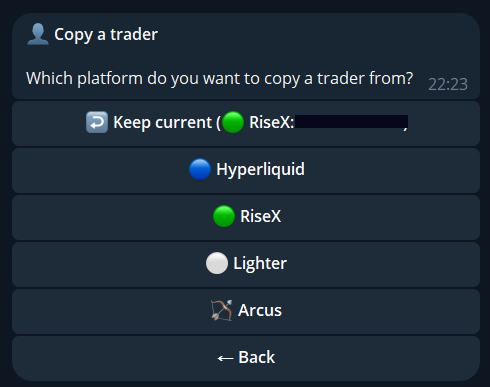
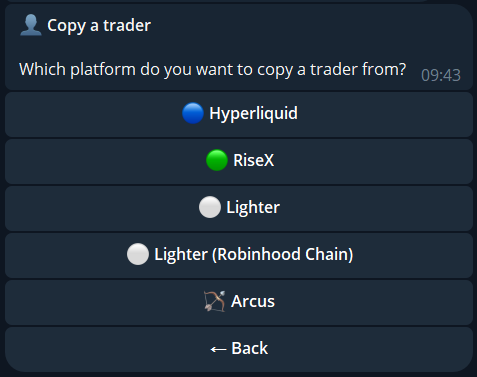
docs: new bot screenshots (five copy sources, welcome menu), Notifications page with the card images

diff --git a/docs/src/content/docs/start/quickstart.md b/docs/src/content/docs/start/quickstart.md
@@ -11,7 +11,7 @@ description: From invite code to your first position.
 3. **Approve the fee once.** On Hyperliquid, Lighter, Lighter RH and RiseX the bot sends a signing link. You sign with your wallet.
 4. **Pick a mode.** [Copy trading](/guide/copy-trading/) needs one venue. [Delta-Neutral](/guide/delta-neutral/) needs two.
 
-   ![The main menu with the Copy Trading and Delta-Neutral buttons](../../../assets/screenshots/bot-main-menu.png)
+   ![The welcome menu: Copy Trading and Delta Neutral, with Link platform, Watch Traders, Refresh and Help](../../../assets/screenshots/bot-main-menu.png)
 
 5. **Start.** The bot opens and closes positions for you.
 
